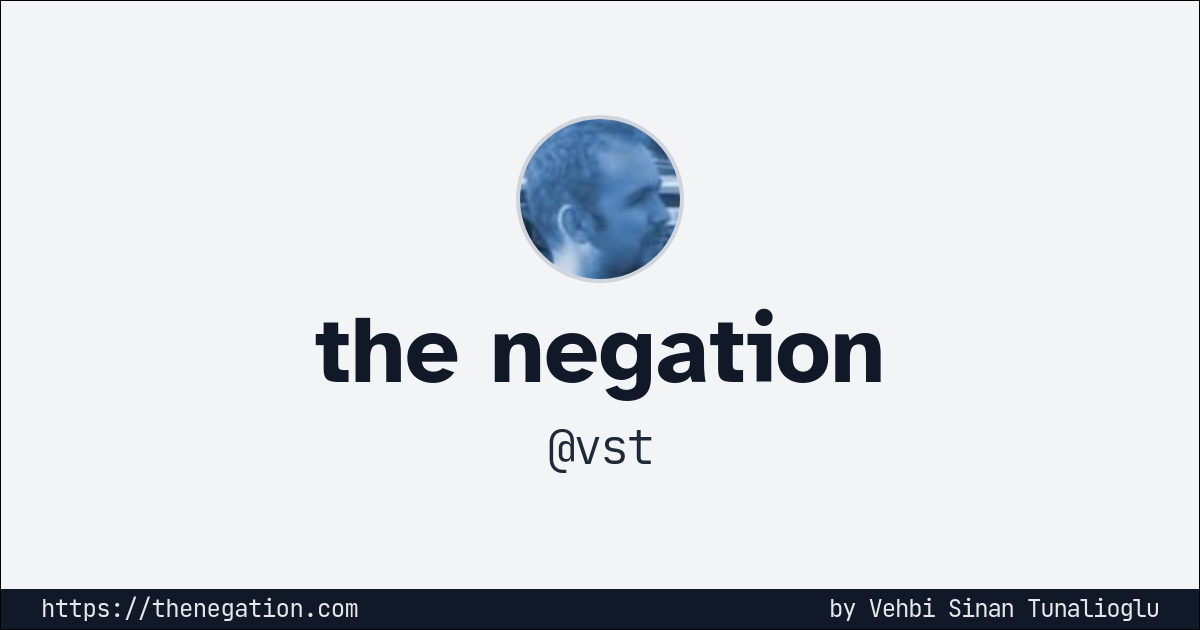
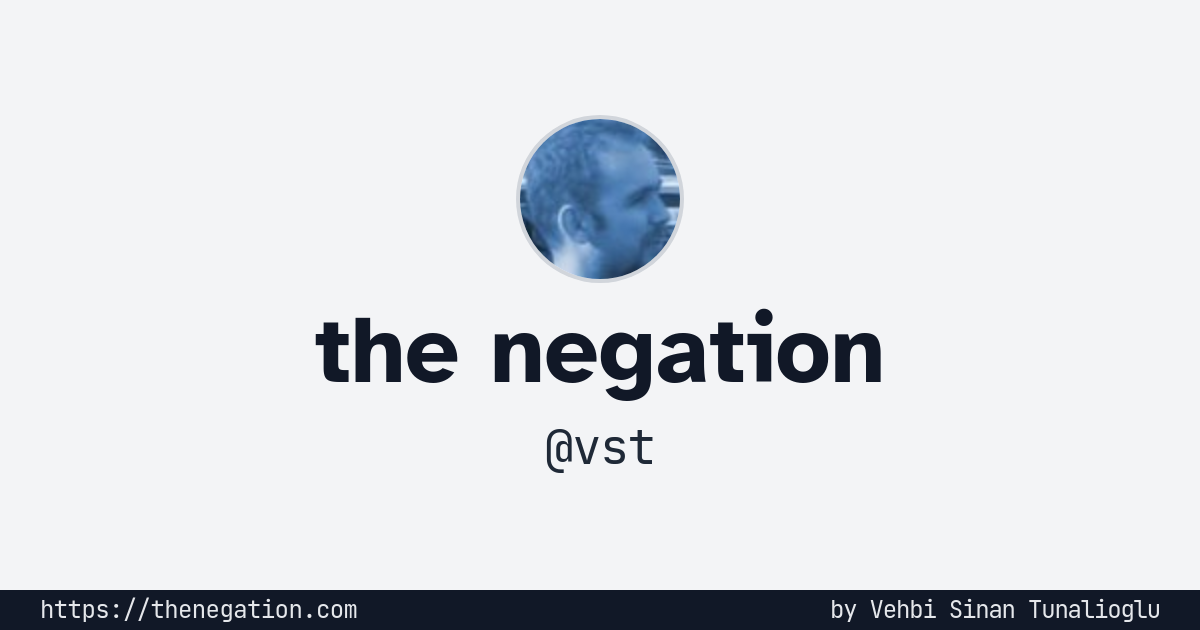
fix: regenerate default OpenGraph image

diff --git a/var/og/templates/default.html b/var/og/templates/default.html
@@ -11,9 +11,7 @@
       <div class="og-canvas-main">
         <img src="{{ avatar }}" class="og-avatar size-40" />
         <div class="text-8xl font-sans font-bold">{{ title }}</div>
-        <div
-          class="text-gray-800 text-5xl font-mono font-light tracking-tighter"
-        >
+        <div class="text-gray-800 text-5xl font-mono tracking-tight">
           {{ subtitle }}
         </div>
       </div>

diff --git a/var/og/input.css b/var/og/input.css
@@ -10,7 +10,7 @@
   }
 
   .og-canvas {
-    @apply flex flex-col max-w-[1200px] max-h-[630px] h-full border border-black w-full bg-gray-100 text-gray-900;
+    @apply flex flex-col max-w-[1200px] max-h-[630px] h-full w-full bg-gray-100 text-gray-900;
   }
 
   .og-canvas-head {

diff --git a/var/og/README.md b/var/og/README.md
@@ -22,5 +22,5 @@ echo '{"title": "the negation", "subtitle": "@vst", "url": "https://thenegation.
 Build default OpenGraph image:
 
 ```sh
-puppeteer screenshot build/default.html ../../static/assets/media/og/default.png --viewport 1200x630
+puppeteer screenshot build/default.html ../../static/media/og.png --viewport 1200x630
 ```
